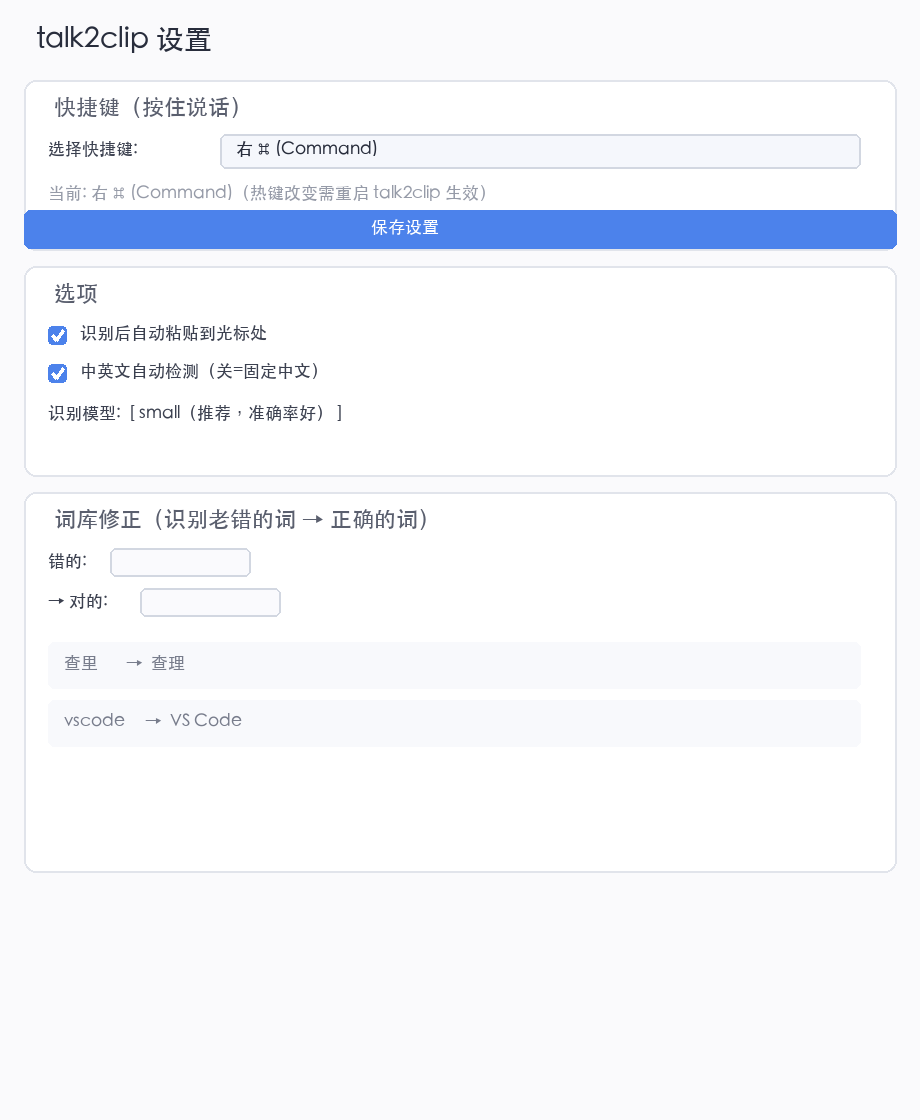
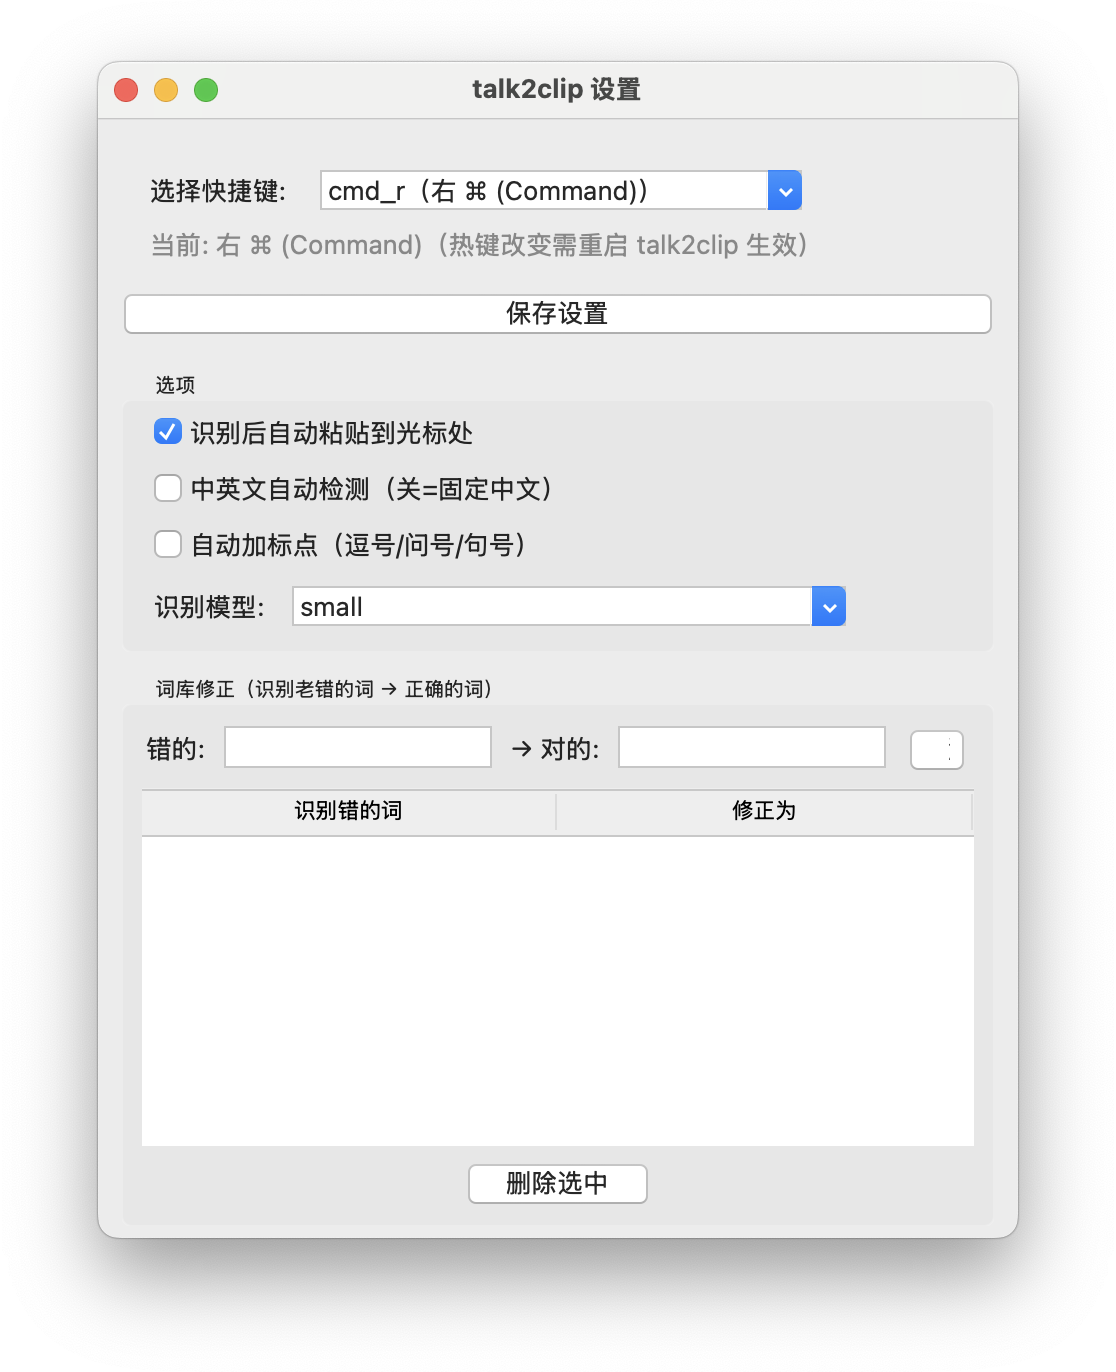
设置界面修复: 下拉显示中文名/保存取键名/去emoji; README 配真实截图

diff --git a/settings.py b/settings.py
@@ -66,15 +66,18 @@ class App(tk.Tk):
         frm_hk = ttk.Frame(self)
         frm_hk.pack(fill="x", padx=24)
         ttk.Label(frm_hk, text="选择快捷键:").grid(row=0, column=0, sticky="w")
-        self.hk_var = tk.StringVar(value=self.cfg.get("hotkey", "cmd_r"))
+        # 初始值：config 键名 → 显示格式（"cmd_r" → "cmd_r（右 ⌘ (Command)）"）
+        raw_hk = self.cfg.get("hotkey", "cmd_r")
+        hk_display = next((f"{n}（{label}）" for n, label in HOTKEYS if n == raw_hk), raw_hk)
+        self.hk_var = tk.StringVar(value=hk_display)
         hk_box = ttk.Combobox(frm_hk, textvariable=self.hk_var, state="readonly", width=24)
-        hk_box["values"] = [n for n, _ in HOTKEYS]
+        hk_box["values"] = [f"{n}（{label}）" for n, label in HOTKEYS]
         hk_box.grid(row=0, column=1, padx=8, pady=4)
         self.hk_label = ttk.Label(frm_hk, text="", foreground="#888")
         self.hk_label.grid(row=1, column=0, columnspan=2, sticky="w", pady=(0, 4))
         self._update_hk_label()
 
-        btn = ttk.Button(self, text="💾 保存设置", command=self.save_settings)
+        btn = ttk.Button(self, text="保存设置", command=self.save_settings)
         btn.pack(pady=(6, 10), fill="x", padx=12)
 
         # ── 选项区 ──
@@ -109,7 +112,7 @@ class App(tk.Tk):
         ttk.Label(frm_add, text="→ 对的:").pack(side="left")
         self.right_var = tk.StringVar()
         ttk.Entry(frm_add, textvariable=self.right_var, width=14).pack(side="left", padx=4)
-        ttk.Button(frm_add, text="➕ 添加", command=self.add_correction).pack(side="left", padx=4)
+        ttk.Button(frm_add, text="添加", command=self.add_correction).pack(side="left", padx=4)
 
         self.tree = ttk.Treeview(frm_dict, columns=("wrong", "right"), show="headings", height=8)
         self.tree.heading("wrong", text="识别错的词")
@@ -118,13 +121,14 @@ class App(tk.Tk):
         self.tree.column("right", width=200)
         self.tree.pack(fill="both", expand=True, padx=8, pady=4)
 
-        btn_del = ttk.Button(frm_dict, text="🗑 删除选中", command=self.delete_correction)
+        btn_del = ttk.Button(frm_dict, text="删除选中", command=self.delete_correction)
         btn_del.pack(pady=(0, 6))
 
         self._refresh_corrections()
 
     def _update_hk_label(self):
-        name = self.hk_var.get()
+        v = self.hk_var.get()
+        name = v.split("（")[0].strip()   # 从 "cmd_r（右 ⌘ (Command)）" 提取键名
         self.hk_label.config(text=f"当前: {HOTKEY_NAMES.get(name, name)}（热键改变需重启 talk2clip 生效）")
 
     def _refresh_corrections(self):
@@ -155,7 +159,7 @@ class App(tk.Tk):
         self._refresh_corrections()
 
     def save_settings(self):
-        self.cfg["hotkey"] = self.hk_var.get()
+        self.cfg["hotkey"] = self.hk_var.get().split("（")[0].strip()   # 只存键名
         self.cfg["model"] = self.model_var.get()
         self.cfg["auto_paste"] = self.paste_var.get()
         self.cfg["auto_lang"] = self.lang_var.get()
